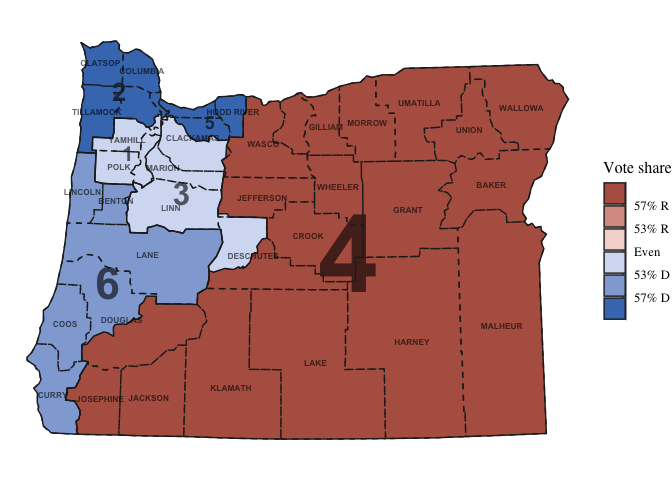
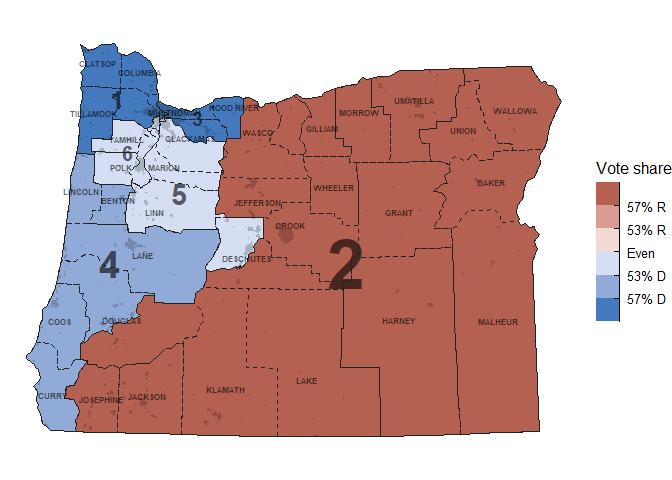
update readme

diff --git a/README.md b/README.md
@@ -24,12 +24,24 @@ ggplot(oregon, aes(group=cd_2020)) +
   # 'ndv' and 'nrv' contain D and R vote counts
   geom_district(aes(fill=ndv, denom=ndv+nrv), linewidth=0.9) +
   geom_district_text() +
+  # can then highlight towns and cities
+  geom_places(state = 'OR') + 
   # we can overlay county boundaries and labels
   geom_district(aes(group=county), linewidth=0.4, linetype="dashed", fill=NA) +
   geom_district_text(aes(group=county, label=toupper(county)),
                      size=2.2, check_overlap=TRUE) +
   scale_fill_party_b(limits=c(0.4, 0.6)) +
   theme_map()
+#> Warning in grid.Call(C_stringMetric, as.graphicsAnnot(x$label)): font family not
+#> found in Windows font database
+
+#> Warning in grid.Call(C_stringMetric, as.graphicsAnnot(x$label)): font family not
+#> found in Windows font database
+#> Warning in grid.Call(C_textBounds, as.graphicsAnnot(x$label), x$x, x$y, : font
+#> family not found in Windows font database
+
+#> Warning in grid.Call(C_textBounds, as.graphicsAnnot(x$label), x$x, x$y, : font
+#> family not found in Windows font database
 ```
 
 <img src="man/figures/README-example-1.png" width="100%" />
